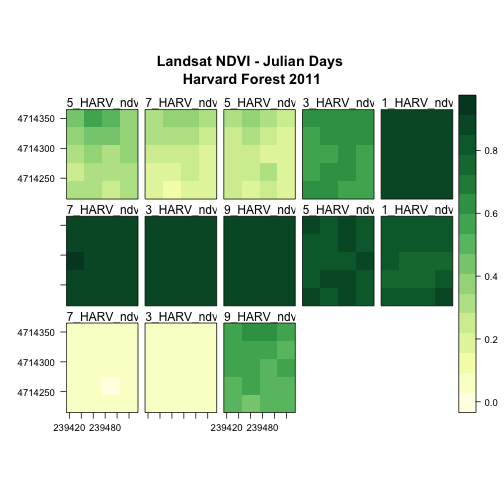
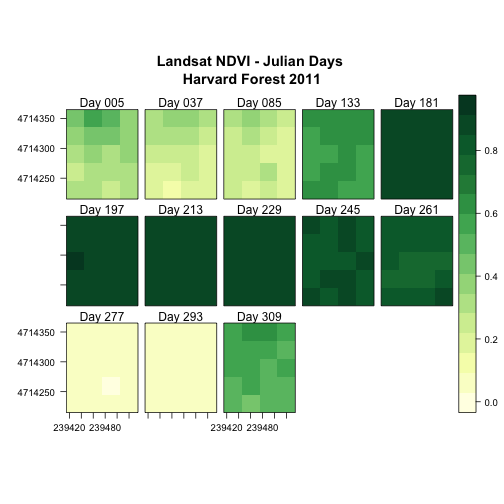
fix gsub code in 06

diff --git a/_posts/R/dc-spatial-raster/2016-01-07-SR06-Plotting-Time-Series-Rasters-in-R.md b/_posts/R/dc-spatial-raster/2016-01-07-SR06-Plotting-Time-Series-Rasters-in-R.md
@@ -7,7 +7,7 @@ authors: [Leah A. Wasser, Megan A. Jones, Zack Bryn, Kristina Riemer, Jason Will
 contributors: [ ]
 packagesLibraries: [raster, rgdal, rasterVis]
 dateCreated:  2014-11-26
-lastModified: 2016-03-02
+lastModified: 2016-03-04
 categories:  [self-paced-tutorial]
 tags: [R, raster, spatial-data-gis]
 mainTag: raster-data-series
@@ -79,17 +79,7 @@ please create it now.
     library(raster)
     library(rgdal)
     library(rasterVis)
-
-    ## Loading required package: lattice
-    ## Loading required package: latticeExtra
-    ## Loading required package: RColorBrewer
-    ## 
-    ## Attaching package: 'latticeExtra'
-    ## 
-    ## The following object is masked from 'package:ggplot2':
-    ## 
-    ##     layer
-
+    
     # Create list of NDVI file paths
     all_NDVI_HARV <- list.files("NEON-DS-Landsat-NDVI/HARV/2011/NDVI", full.names = TRUE, pattern = ".tif$")
     
@@ -189,34 +179,28 @@ First let's remove "_HARV_NDVI_crop" from each label.
     ## [10] "X261_HARV_ndvi_crop" "X277_HARV_ndvi_crop" "X293_HARV_ndvi_crop"
     ## [13] "X309_HARV_ndvi_crop"
 
-    # use gsub to modify label names.
-    # that we'll use for the plot 
-    rasterNames  <- gsub("X","Day", names(NDVI_HARV_stack))
+    # use gsub to modify label names.that we'll use for the plot 
+    rasterNames  <- gsub("X","Day ", names(NDVI_HARV_stack))
     
     # view Names
     rasterNames
 
-    ##  [1] "Day005_HARV_ndvi_crop" "Day037_HARV_ndvi_crop"
-    ##  [3] "Day085_HARV_ndvi_crop" "Day133_HARV_ndvi_crop"
-    ##  [5] "Day181_HARV_ndvi_crop" "Day197_HARV_ndvi_crop"
-    ##  [7] "Day213_HARV_ndvi_crop" "Day229_HARV_ndvi_crop"
-    ##  [9] "Day245_HARV_ndvi_crop" "Day261_HARV_ndvi_crop"
-    ## [11] "Day277_HARV_ndvi_crop" "Day293_HARV_ndvi_crop"
-    ## [13] "Day309_HARV_ndvi_crop"
+    ##  [1] "Day 005_HARV_ndvi_crop" "Day 037_HARV_ndvi_crop"
+    ##  [3] "Day 085_HARV_ndvi_crop" "Day 133_HARV_ndvi_crop"
+    ##  [5] "Day 181_HARV_ndvi_crop" "Day 197_HARV_ndvi_crop"
+    ##  [7] "Day 213_HARV_ndvi_crop" "Day 229_HARV_ndvi_crop"
+    ##  [9] "Day 245_HARV_ndvi_crop" "Day 261_HARV_ndvi_crop"
+    ## [11] "Day 277_HARV_ndvi_crop" "Day 293_HARV_ndvi_crop"
+    ## [13] "Day 309_HARV_ndvi_crop"
 
     # Remove HARV_NDVI_crop from the second part of the string 
-    rasterNames  <- gsub("_HARV_NDVI_crop","",rasterNames)
+    rasterNames  <- gsub("_HARV_ndvi_crop","",rasterNames)
     
     # view names for each raster layer
     rasterNames
 
-    ##  [1] "Day005_HARV_ndvi_crop" "Day037_HARV_ndvi_crop"
-    ##  [3] "Day085_HARV_ndvi_crop" "Day133_HARV_ndvi_crop"
-    ##  [5] "Day181_HARV_ndvi_crop" "Day197_HARV_ndvi_crop"
-    ##  [7] "Day213_HARV_ndvi_crop" "Day229_HARV_ndvi_crop"
-    ##  [9] "Day245_HARV_ndvi_crop" "Day261_HARV_ndvi_crop"
-    ## [11] "Day277_HARV_ndvi_crop" "Day293_HARV_ndvi_crop"
-    ## [13] "Day309_HARV_ndvi_crop"
+    ##  [1] "Day 005" "Day 037" "Day 085" "Day 133" "Day 181" "Day 197" "Day 213"
+    ##  [8] "Day 229" "Day 245" "Day 261" "Day 277" "Day 293" "Day 309"
 
 <i class="fa fa-star"></i> **Data Tip:** Instead of substituting "x" and
 "_HARV_NDVI_crop" separately, we could have used use the vertical bar character 

diff --git a/_posts/R/dc-spatial-raster/2016-01-07-SR00-Raster-Structure.md b/_posts/R/dc-spatial-raster/2016-01-07-SR00-Raster-Structure.md
@@ -5,7 +5,7 @@ date:   2015-10-29
 authors: [Leah A. Wasser, Megan A. Jones, Zack Bryn, Kristina Riemer, Jason Williams, Jeff Hollister,  Mike Smorul]
 contributors: [ ]
 dateCreated: 2015-10-23
-lastModified: 2016-03-02
+lastModified: 2016-03-04
 packagesLibraries: [raster, rgdal]
 categories:  [self-paced-tutorial]
 tags: [R, raster, spatial-data-gis]
@@ -427,8 +427,9 @@ identifying outliers and bad data values in our raster data.
          ylab="Frequency",
          col="wheat")
 
-    ## Warning in .hist1(x, maxpixels = maxpixels, main = main, plot = plot, ...):
-    ## 4% of the raster cells were used. 100000 values used.
+    ## Warning in .hist1(x, maxpixels = maxpixels, main = main,
+    ## plot = plot, ...): 4% of the raster cells were used. 100000
+    ## values used.
 
 ![ ]({{ site.baseurl }}/images/rfigs/dc-spatial-raster/00-Raster-Structure/view-raster-histogram-1.png) 
 

diff --git a/_posts/R/dc-spatial-raster/2016-01-07-SR05-Time-Series-Raster.md b/_posts/R/dc-spatial-raster/2016-01-07-SR05-Time-Series-Raster.md
@@ -6,7 +6,7 @@ authors: [Leah A. Wasser, Megan A. Jones, Zack Bryn, Kristina Riemer, Jason Will
 contributors: [ ]
 packagesLibraries: [raster, rgdal]
 dateCreated:  2014-11-26
-lastModified: 2016-03-02
+lastModified: 2016-03-04
 categories:  [self-paced-tutorial]
 tags: [R, raster, spatial-data-gis]
 tutorialSeries: [raster-data-series, raster-time-series]
@@ -346,6 +346,14 @@ thereafter.
 Let's next view some temperature data for our field site to see whether there 
 were some unusual fluctuations that may explain this pattern of greening and
 browning seen in the NDVI data.
+
+
+    ## 
+    ## Attaching package: 'ggplot2'
+    ## 
+    ## The following object is masked from 'package:latticeExtra':
+    ## 
+    ##     layer
 
 ![ ]({{ site.baseurl }}/images/rfigs/dc-spatial-raster/05-Time-Series-Raster/view-temp-data-1.png) 
 

diff --git a/_posts/R/dc-spatial-raster/2016-01-07-SR01-Plot-Raster.md b/_posts/R/dc-spatial-raster/2016-01-07-SR01-Plot-Raster.md
@@ -6,7 +6,7 @@ authors: [Leah A. Wasser, Megan A. Jones, Zack Bryn, Kristina Riemer, Jason Will
 contributors: [ ]
 packagesLibraries: [raster, rgdal]
 dateCreated:  2015-10-23
-lastModified: 2016-03-02
+lastModified: 2016-03-04
 categories:  [self-paced-tutorial]
 tags: [R, raster, spatial-data-gis]
 tutorialSeries: [raster-data-series]
@@ -130,7 +130,7 @@ break values.
 
     DSMhist$counts
 
-    ## [1] 31798 67731   471
+    ## [1] 31838 67711   451
 
 Warning message!? Remember, the default for the histogram is to include only a
 subset of 100,000 values. We could force it to show all the pixel values or we

diff --git a/_posts/R/dc-spatial-raster/2016-01-07-SR04-Multi-Band-Rasters-In-R.md b/_posts/R/dc-spatial-raster/2016-01-07-SR04-Multi-Band-Rasters-In-R.md
@@ -6,7 +6,7 @@ authors: [Leah A. Wasser, Megan A. Jones, Zack Bryn, Kristina Riemer, Jason Will
 contributors: [ ]
 packagesLibraries: [raster, rgdal]
 dateCreated:  2015-10-23
-lastModified: 2016-03-02
+lastModified: 2016-03-04
 categories:  [self-paced-tutorial]
 tags: [R, raster, spatial-data-gis]
 tutorialSeries: [raster-data-series, raster-time-series]

diff --git a/_posts/R/dc-spatial-raster/2016-01-07-SR02-Reproject-Raster-In-R.md b/_posts/R/dc-spatial-raster/2016-01-07-SR02-Reproject-Raster-In-R.md
@@ -6,7 +6,7 @@ authors: [Leah A. Wasser, Megan A. Jones, Zack Bryn, Kristina Riemer, Jason Will
 contributors: [ ]
 packagesLibraries: [raster, rgdal]
 dateCreated:  2015-10-23
-lastModified: 2016-03-02
+lastModified: 2016-03-04
 categories:  [self-paced-tutorial]
 tags: [R, raster, spatial-data-gis]
 tutorialSeries: [raster-data-series]

diff --git a/_posts/R/dc-spatial-raster/2016-01-07-SR03-Raster-Calculations-In-R.md b/_posts/R/dc-spatial-raster/2016-01-07-SR03-Raster-Calculations-In-R.md
@@ -6,7 +6,7 @@ authors: [Leah A. Wasser, Megan A. Jones, Zack Bryn, Kristina Riemer, Jason Will
 contributors: [ ]
 packagesLibraries: [raster, rgdal]
 dateCreated:  2015-10-23
-lastModified: 2016-03-02
+lastModified: 2016-03-04
 categories:  [self-paced-tutorial]
 tags: [R, raster, spatial-data-gis]
 tutorialSeries: [raster-data-series]

diff --git a/_posts/R/dc-spatial-raster/2016-01-07-SR07-Extract-NDVI-From-Rasters-in-R.md b/_posts/R/dc-spatial-raster/2016-01-07-SR07-Extract-NDVI-From-Rasters-in-R.md
@@ -6,7 +6,7 @@ authors: [Leah A. Wasser, Megan A. Jones, Zack Bryn, Kristina Riemer, Jason Will
 contributors: [ ]
 packagesLibraries: [raster, rgdal, ggplot2]
 dateCreated: 2014-11-26
-lastModified: 2016-03-02
+lastModified: 2016-03-04
 categories:  [self-paced-tutorial]
 tags: [R, raster, spatial-data-gis]
 mainTag: raster-data-series
